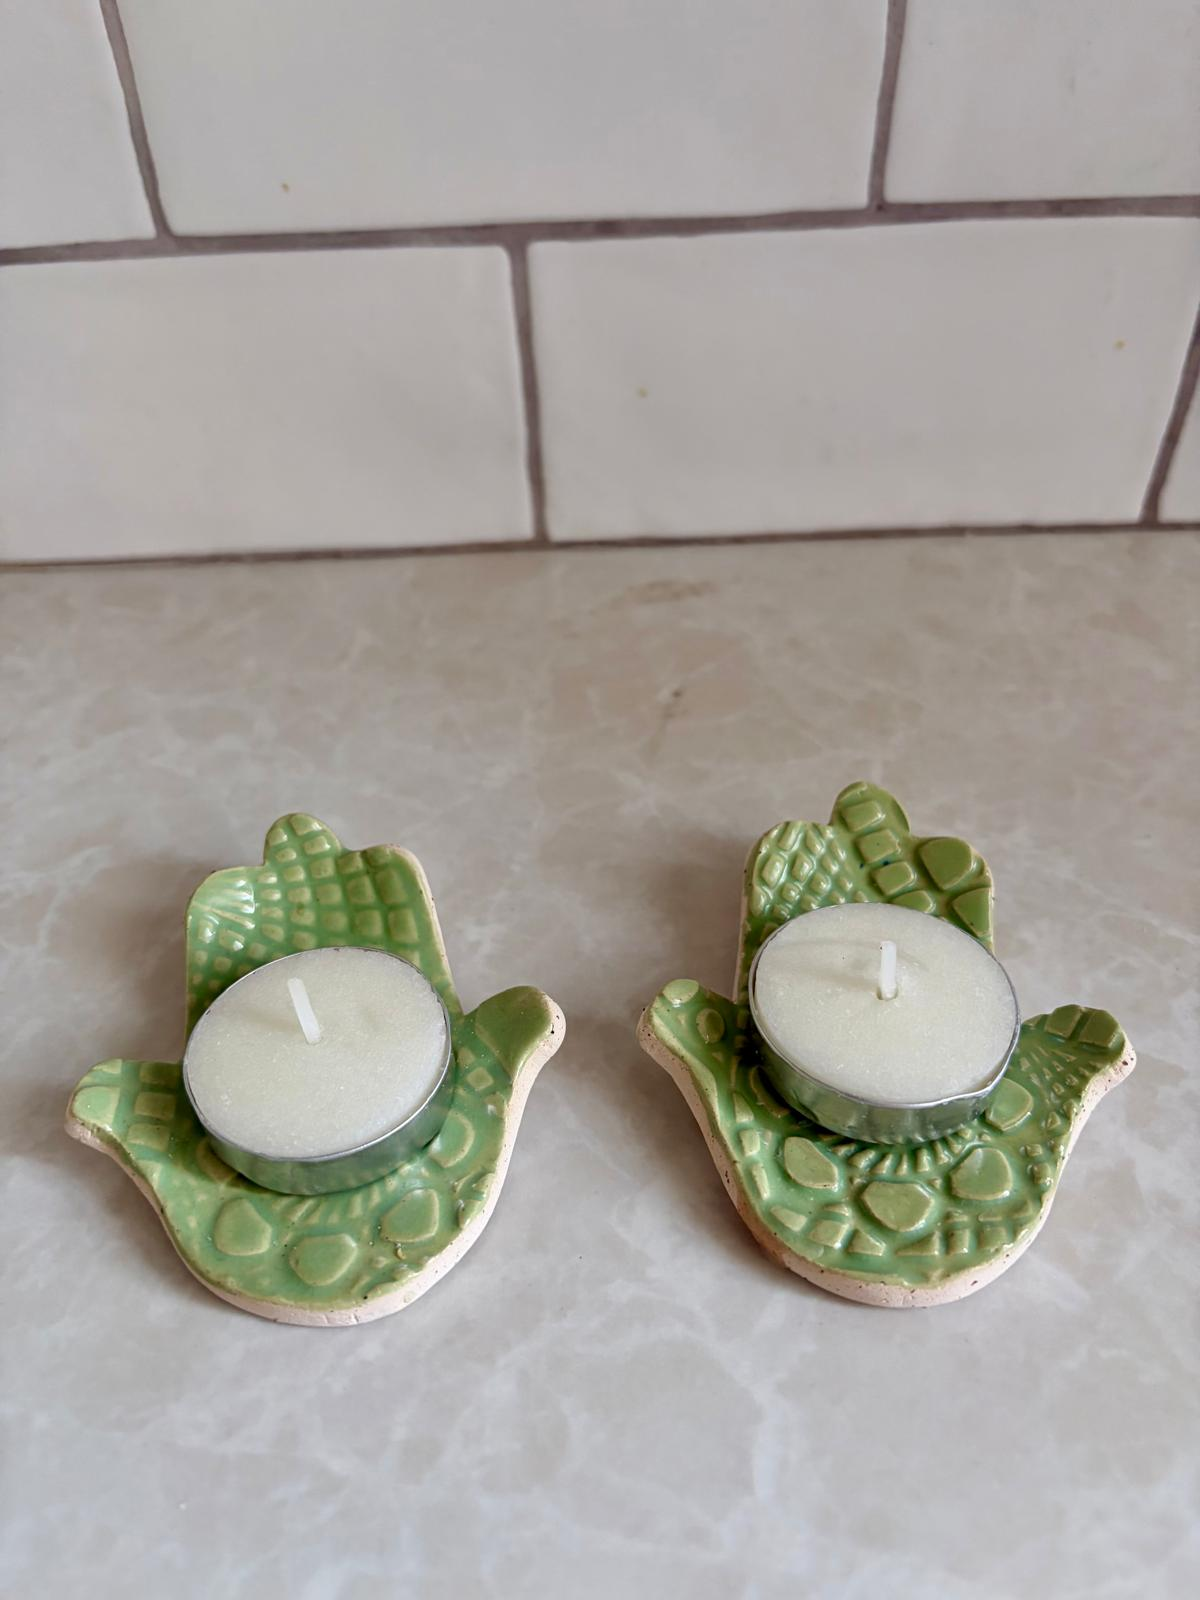
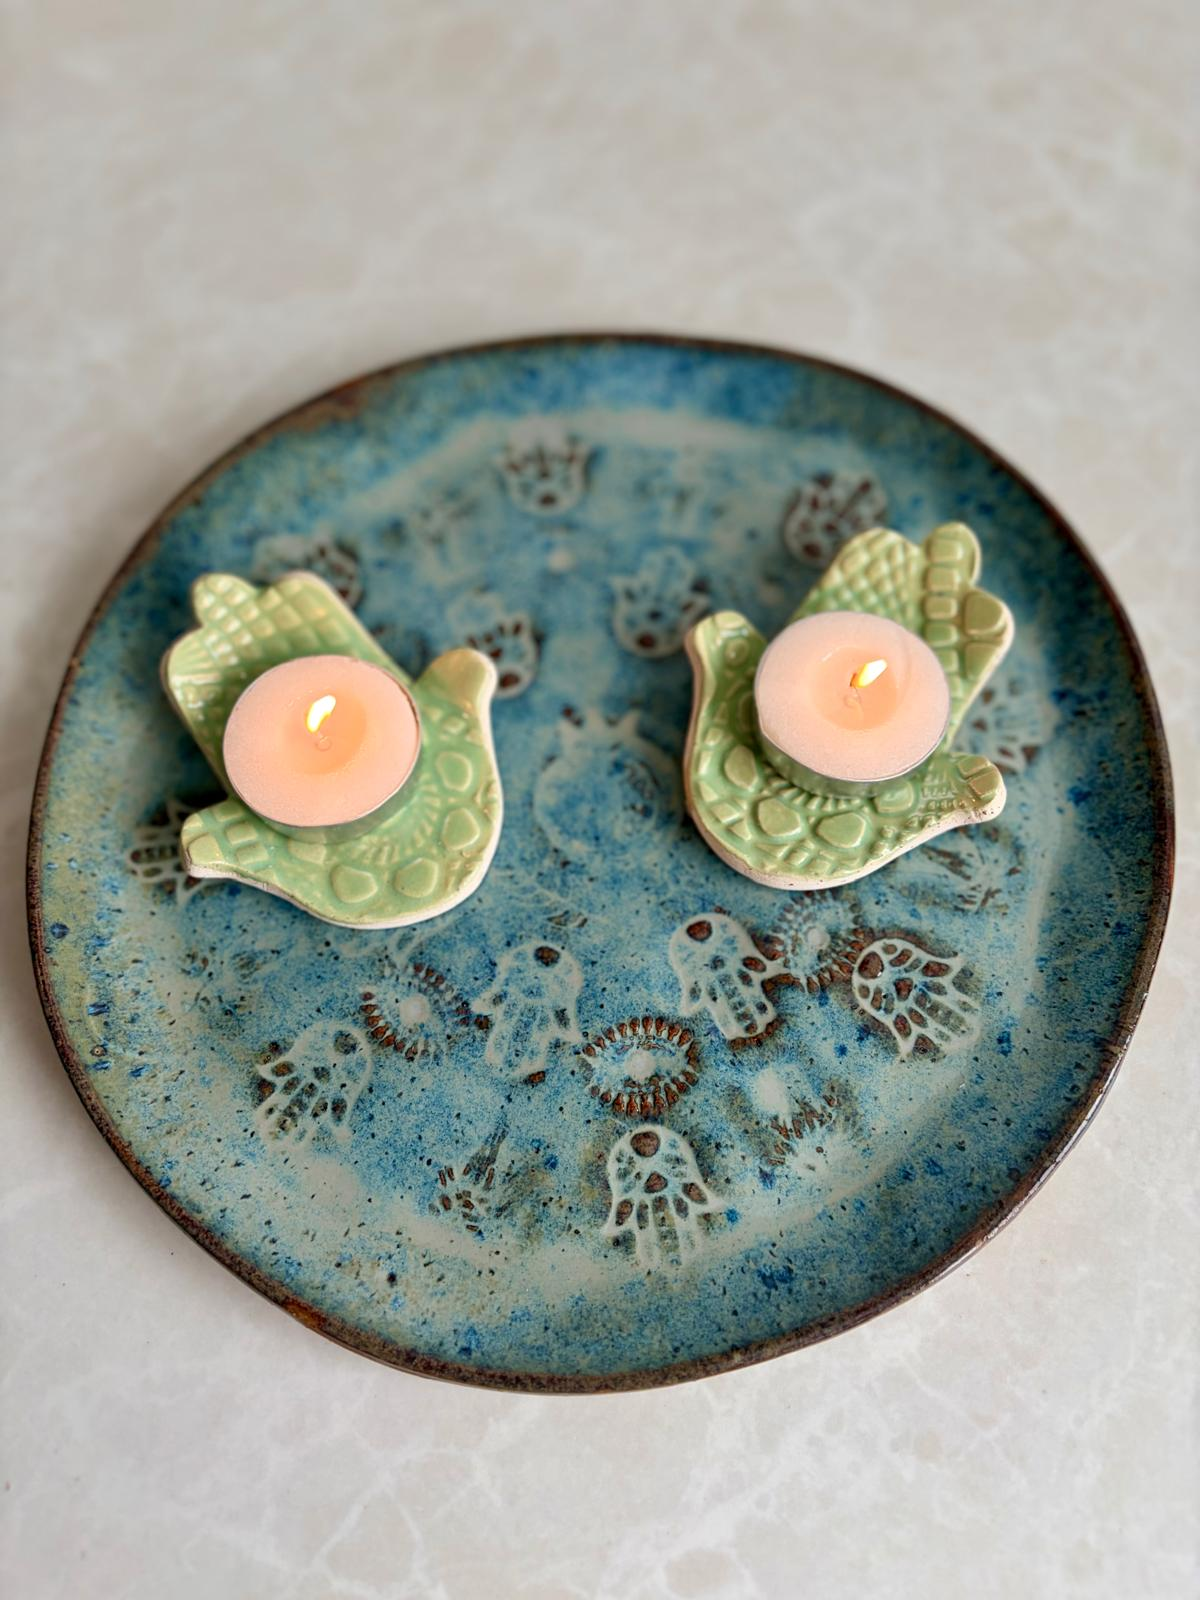
Reorder tea light pair photos — lit shot is now hero

diff --git a/src/lib/products.ts b/src/lib/products.ts
@@ -133,7 +133,7 @@ export const products: Product[] = [
       "/images/products/tea_light_pair/1-hero.jpeg",
       "/images/products/tea_light_pair/2-lifestyle.jpeg",
       "/images/products/tea_light_pair/3-styled.jpeg",
-      "/images/products/tea_light_pair/4-styled-alt.jpeg",
+      "/images/products/tea_light_pair/4-detail.jpeg",
     ],
   },
   {
